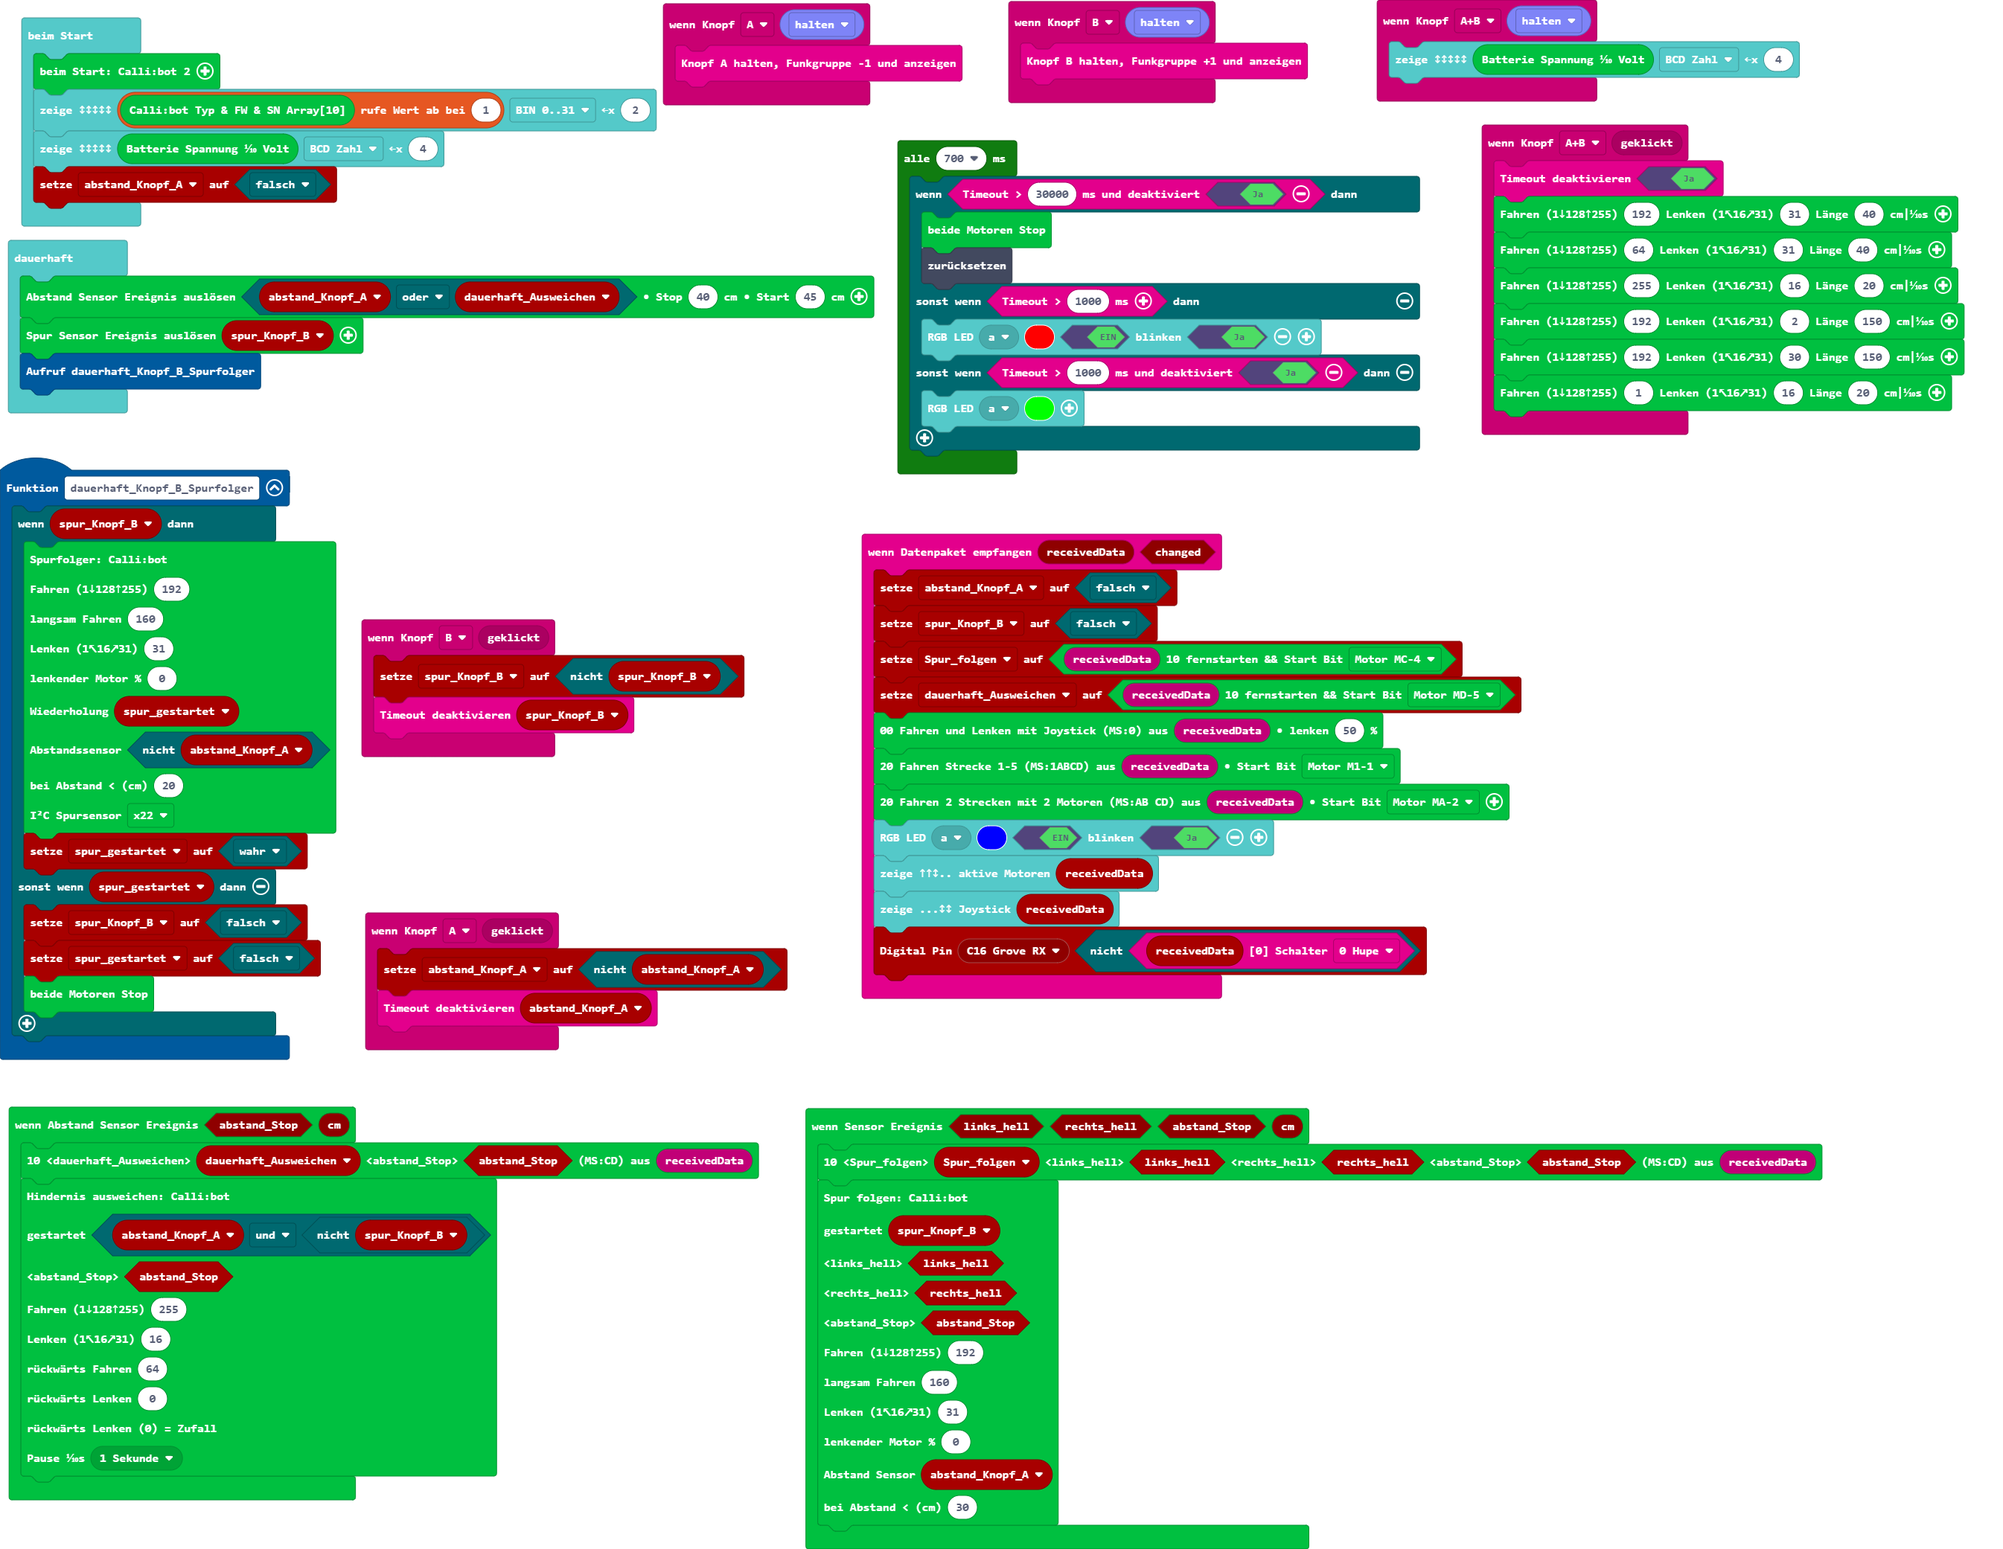
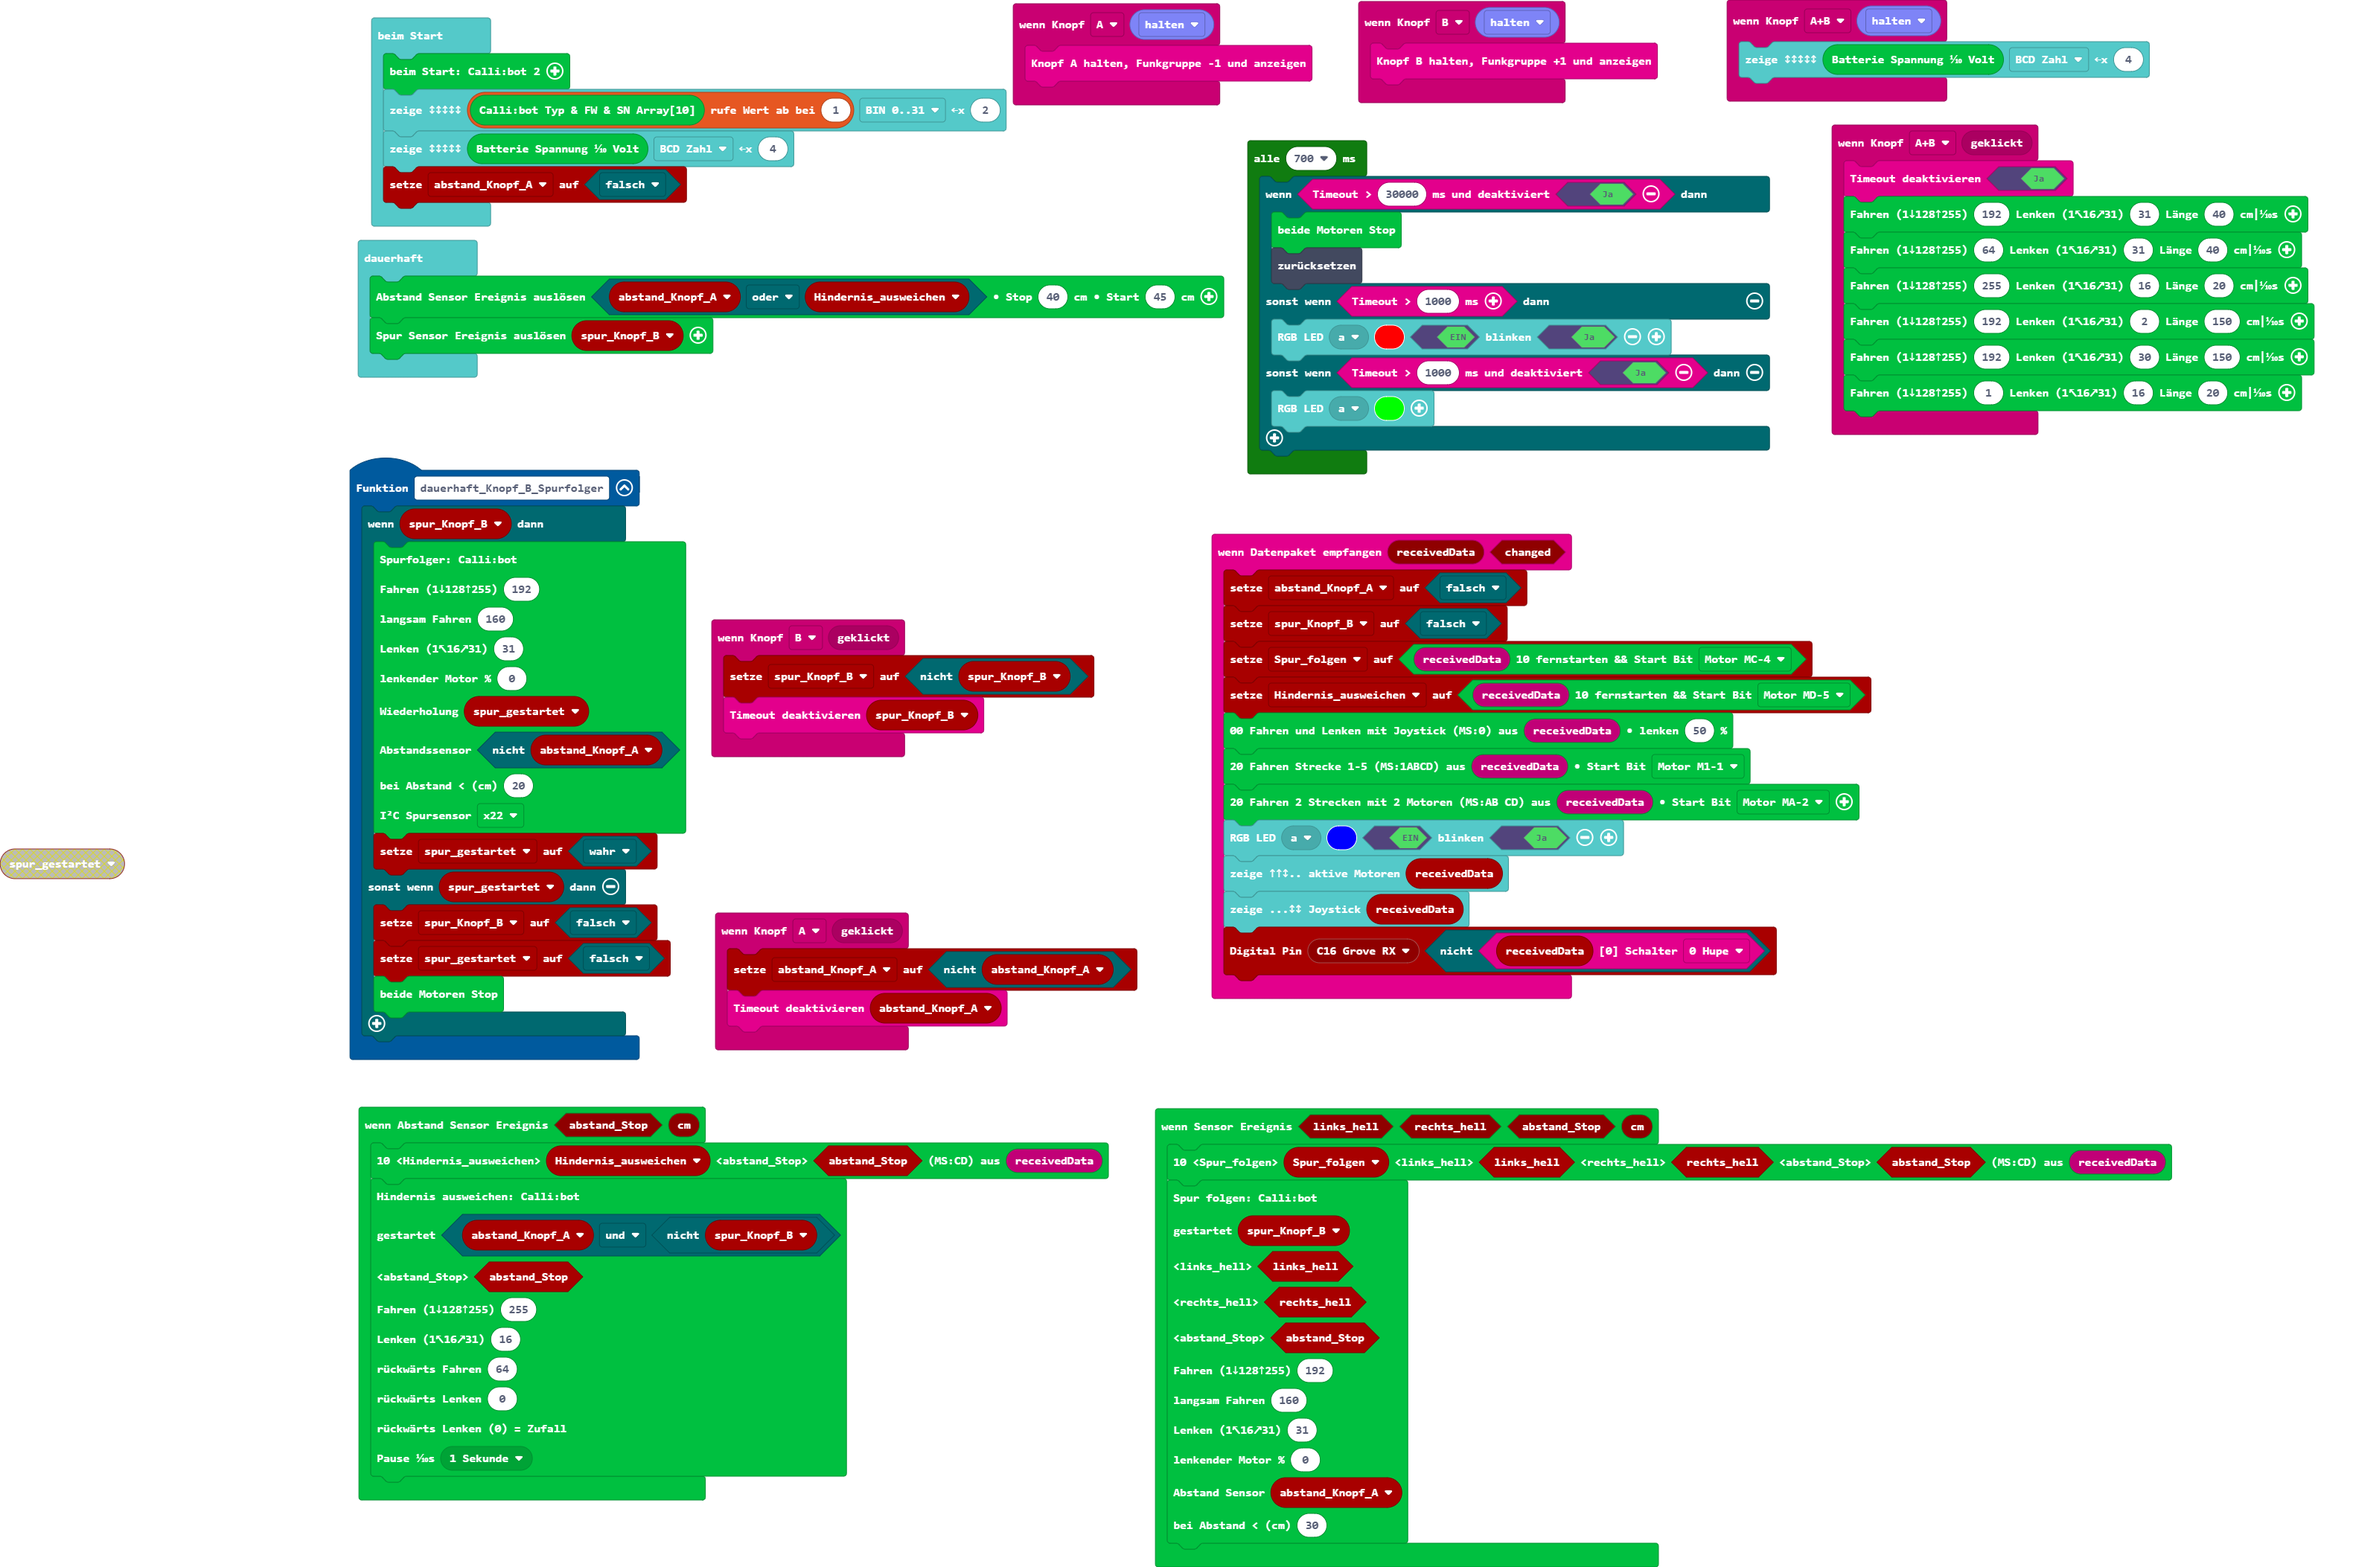
Aktualisiere pxt.json, main.blocks, main.ts

diff --git a/main.ts b/main.ts
@@ -15,7 +15,7 @@ input.onButtonEvent(Button.AB, input.buttonEventClick(), function () {
     cb2.fahreStrecke(1, 16, 20)
 })
 cb2.onAbstandEvent(function (abstand_Stop, cm) {
-    cb2.dauerhaft_AbstandAusweichen(dauerhaft_Ausweichen, abstand_Stop, btf.btf_receivedBuffer19())
+    cb2.buffer_Hindernis_ausweichen(Hindernis_ausweichen, abstand_Stop, btf.btf_receivedBuffer19())
     cb2.eventAbstandAusweichen(
     abstand_Knopf_A && !(spur_Knopf_B),
     abstand_Stop,
@@ -37,7 +37,7 @@ btf.onReceivedDataChanged(function (receivedData, changed) {
     abstand_Knopf_A = false
     spur_Knopf_B = false
     Spur_folgen = cb2.set_Spur_folgen(btf.btf_receivedBuffer19(), btf.e3aktiviert.mc)
-    dauerhaft_Ausweichen = cb2.set_AbstandAusweichen(btf.btf_receivedBuffer19(), btf.e3aktiviert.md)
+    Hindernis_ausweichen = cb2.set_Hindernis_ausweichen(btf.btf_receivedBuffer19(), btf.e3aktiviert.md)
     cb2.fahreJoystick(btf.btf_receivedBuffer19(), 50)
     cb2.fahrplanBuffer5Strecken(btf.btf_receivedBuffer19(), btf.e3aktiviert.m1)
     cb2.fahrplanBuffer2x2Motoren(btf.btf_receivedBuffer19(), btf.e3aktiviert.ma)
@@ -86,16 +86,15 @@ input.onButtonEvent(Button.A, btf.buttonEventValue(ButtonEvent.Hold), function (
 let spur_gestartet = false
 let Spur_folgen = false
 let spur_Knopf_B = false
-let dauerhaft_Ausweichen = false
+let Hindernis_ausweichen = false
 let abstand_Knopf_A = false
 cb2.beimStart()
 btf.zeigeBIN(cb2.readVersionArray()[1], btf.ePlot.bin, 2)
 btf.zeigeBIN(cb2.readSpannung(), btf.ePlot.bcd, 4)
 abstand_Knopf_A = false
 basic.forever(function () {
-    cb2.raiseAbstandEvent(abstand_Knopf_A || dauerhaft_Ausweichen, 40, 45)
+    cb2.raiseAbstandEvent(abstand_Knopf_A || Hindernis_ausweichen, 40, 45)
     cb2.raiseSpurEvent(spur_Knopf_B)
-    dauerhaft_Knopf_B_Spurfolger()
 })
 loops.everyInterval(700, function () {
     if (btf.timeout(30000, true)) {
